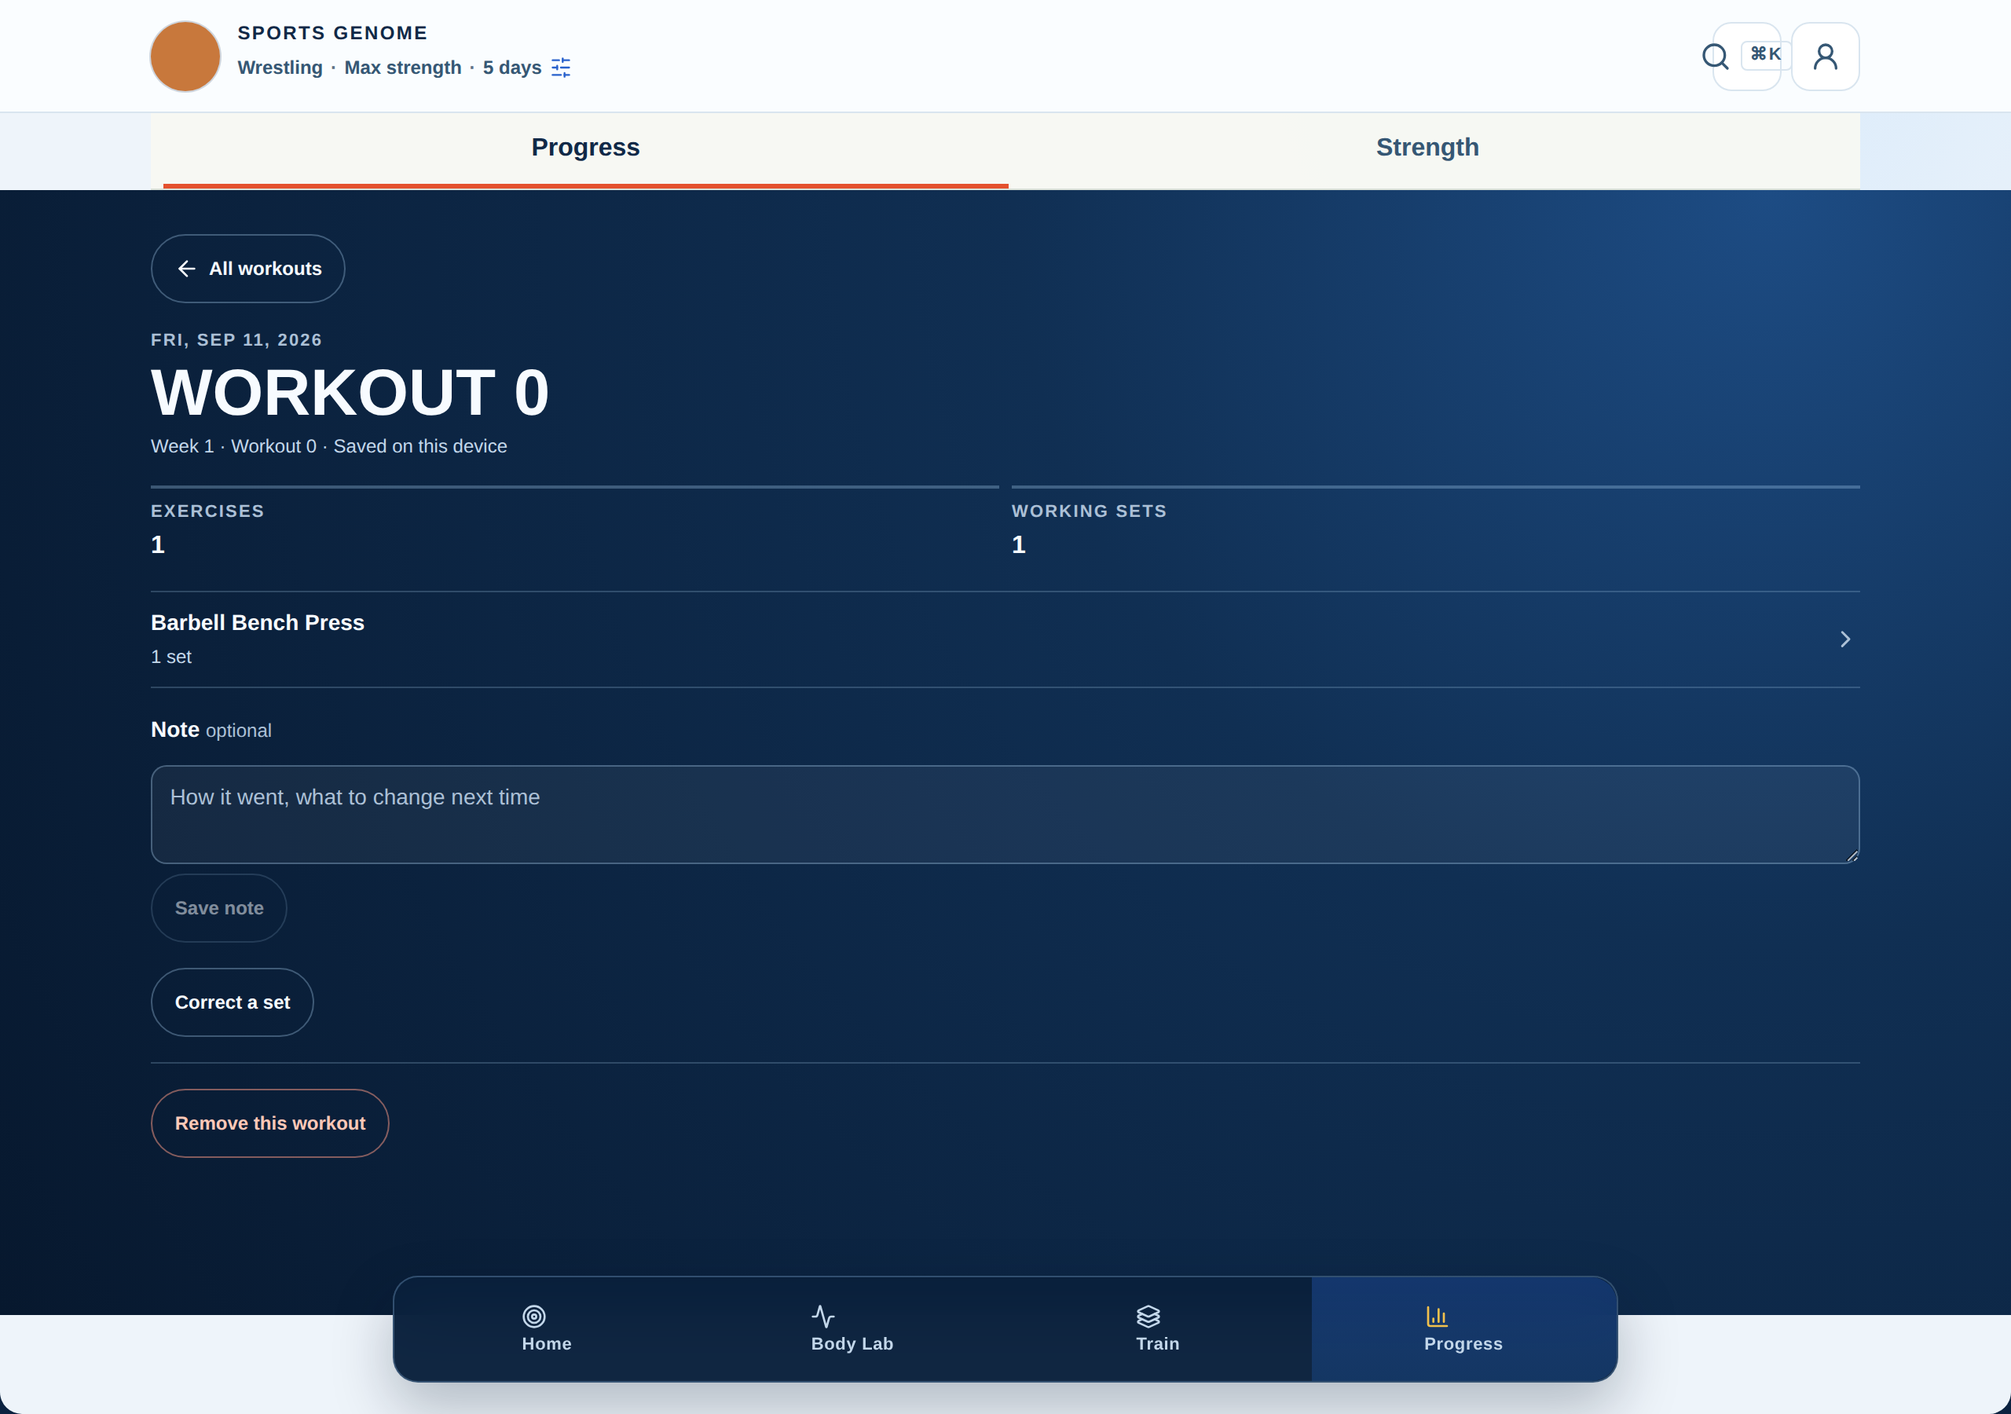
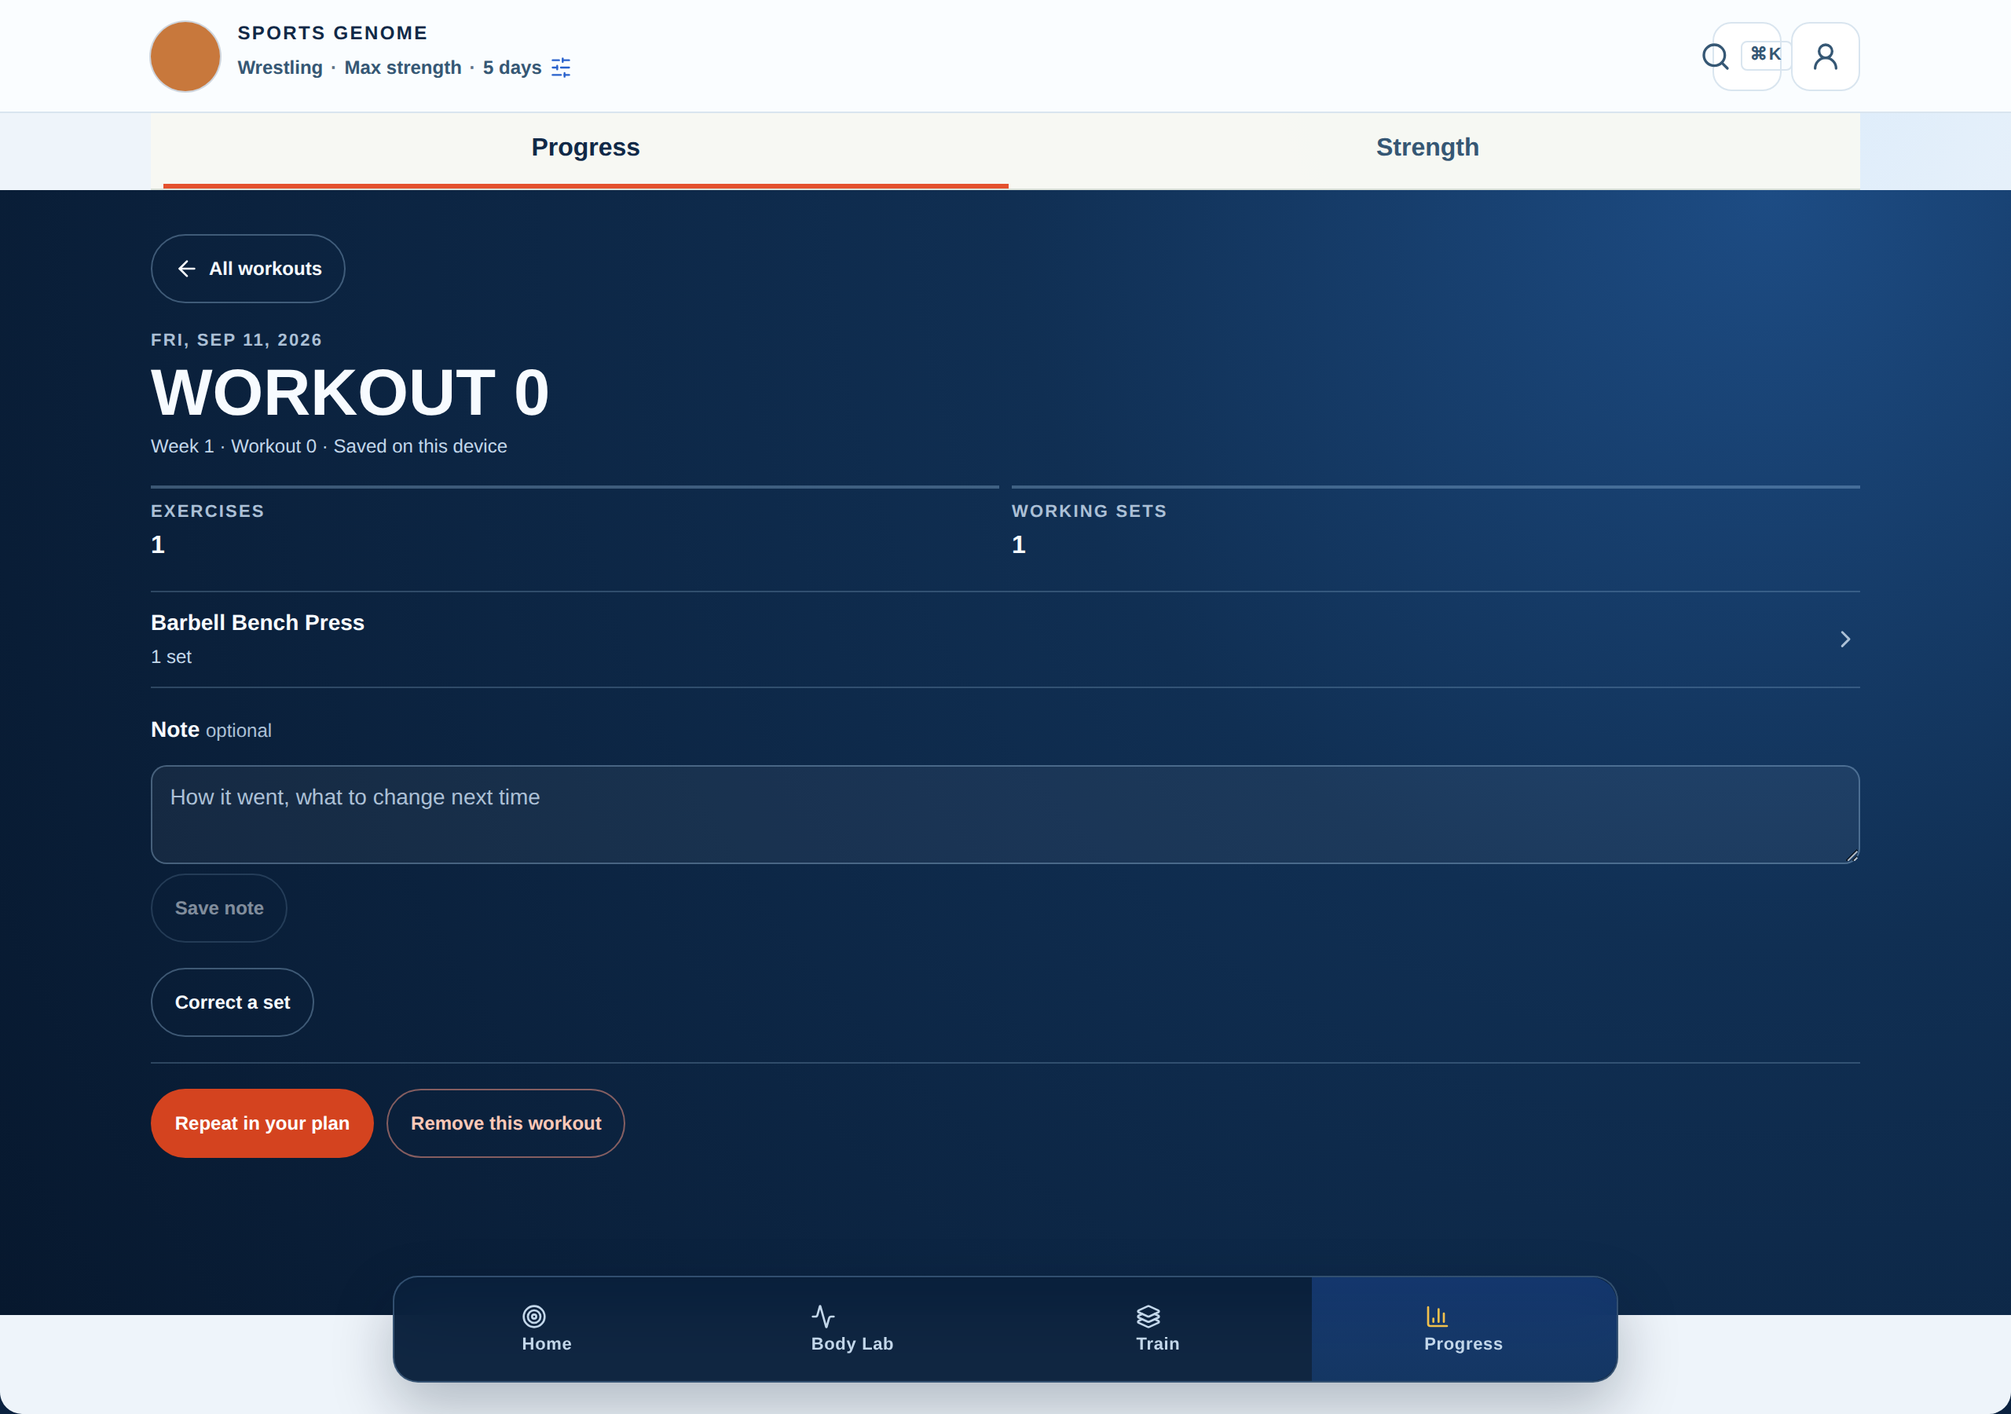
Repeat a past workout into a chosen plan day
A finished workout's detail in Progress offers "Repeat in your plan". It
opens the existing Save to plan dialog (week, day, add-after or replace,
shown before anything changes) with the workout's exercises and their
planned prescriptions only; logged sets, completions, timestamps and
notes stay in history, and an exercise no longer in the catalog is named
and left out. Unit test plus the J17 browser journey (recap probe 75/75).

Claude-Session: https://claude.ai/code/session_01FKh8DNZmGyPUgmby6diXkU

Changed region(s): [[0.0625, 0.7467, 0.3125, 0.84]]

diff --git a/client/src/pages/Home.tsx b/client/src/pages/Home.tsx
@@ -31,7 +31,8 @@ import type { TrainingLoadout as LoadoutMode } from "@/lib/loadoutTemplates";
 import { FeatureTour } from "@/components/FeatureTour";
 import { WorkspaceTabs } from "@/components/WorkspaceTabs";
 import { readScopedRecord, scopedKey } from "@/lib/deviceStorageScope";
-import { loadDeviceWorkoutSessions, saveDeviceWorkoutSessions, stampLegacyWeightUnits } from "@/lib/deviceWorkoutLog";
+import { loadDeviceWorkoutSessions, saveDeviceWorkoutSessions, stampLegacyWeightUnits, type DeviceWorkoutSession } from "@/lib/deviceWorkoutLog";
+import { repeatDayFrom } from "@/lib/sessionRecap";
 import { usePlanSync } from "@/lib/usePlanSync";
 import { WorkoutHealthPanel } from "@/components/WorkoutHealthPanel";
 import { WarmupPanel } from "@/components/WarmupPanel";
@@ -1385,6 +1386,17 @@ export default function Home() {
     setImportOpen(false);
     setPendingSave({ heading: "Paste a workout", sourceTitle: routine.title || (days.length > 1 ? `${days.length}-day routine` : days[0].label), sourceLine: countLine(days), days, scope: days.length > 1 ? "week" : "day" });
   };
+  /**
+   * Repeat a finished workout (Oct 7 brief H10): the same Save to plan dialog as a paste or a
+   * shared link, so the week, the day and add-after-or-replace are chosen, and shown, before
+   * anything changes. Only exercises and prescriptions travel; the workout's sets stay history.
+   */
+  const repeatSession = (session: DeviceWorkoutSession) => {
+    const { day, leftOut } = repeatDayFrom(session);
+    if (!day.items.length) { toast("Nothing to repeat", { id: "repeat-workout", description: "None of this workout's exercises are in the catalog any more." }); return; }
+    const exercisesLine = `${day.items.length} exercise${day.items.length === 1 ? "" : "s"} with their prescriptions; your logged sets stay in history`;
+    setPendingSave({ heading: "Repeat this workout", sourceTitle: day.label, sourceLine: leftOut.length ? `${exercisesLine}. Not in the catalog any more, so left out: ${leftOut.join(", ")}.` : `${exercisesLine}.`, days: [day], scope: "day" });
+  };
   /** Writes incoming days into the chosen week and days, in one state update per week. */
   const saveIncomingDays = (request: SaveRequest, shareToken?: string): SaveOutcome => {
     if (!planReadyForEdits({ quiet: true })) return { ok: false, message: "Your plan is still loading, so nothing was saved. Try again in a moment." };
@@ -2368,7 +2380,7 @@ export default function Home() {
               </div>
             </>}
         </section>}
-        {workspace === "progress" && <ProgressOverviewPanel sessionId={progressSession} onOpenSession={openProgressSession} onCloseSession={closeProgressSession} onOpenStrength={() => navigateWorkspace("strength")} onOpenTraining={() => navigateWorkspace("day-plan")} sexForReference={athleteBaseline.sexForReference} baselineBodyWeight={athleteBaseline.bodyWeight} weightUnit={athleteBaseline.weightUnit} birthYear={athleteBaseline.birthYear} directAccess={directWorkspaceAccess} />}
+        {workspace === "progress" && <ProgressOverviewPanel sessionId={progressSession} onOpenSession={openProgressSession} onCloseSession={closeProgressSession} onRepeatSession={repeatSession} onOpenStrength={() => navigateWorkspace("strength")} onOpenTraining={() => navigateWorkspace("day-plan")} sexForReference={athleteBaseline.sexForReference} baselineBodyWeight={athleteBaseline.bodyWeight} weightUnit={athleteBaseline.weightUnit} birthYear={athleteBaseline.birthYear} directAccess={directWorkspaceAccess} />}
         {workspace === "strength" && <StrengthGenomePanel weightUnit={athleteBaseline.weightUnit} baselineBodyWeight={athleteBaseline.bodyWeight} sexForReference={athleteBaseline.sexForReference} birthYear={athleteBaseline.birthYear} onRankProfile={(patch) => updateBaseline({ ...athleteBaseline, ...patch })} directAccess={directWorkspaceAccess} onOpenTraining={() => navigateWorkspace("day-plan")} />}
       </main></Suspense>
     </div>

diff --git a/client/src/components/ProgressOverviewPanel.tsx b/client/src/components/ProgressOverviewPanel.tsx
@@ -7,7 +7,7 @@ import { ConfirmDialog, type ConfirmDialogRequest } from "@/components/ConfirmDi
 import { summarizeWithinAthleteStrengthComparisons } from "@/lib/withinAthleteStrengthChange";
 import { changeStateLabel, changeTone } from "@/lib/changeStateCopy";
 import { mergeStrengthHistory } from "@/lib/unifiedStrengthHistory";
-import { deviceWorkoutHistoryEvent, isCompletedSet, isCompletedWorkout, loadDeviceWorkoutSessions, removeDeviceWorkoutSession, saveDeviceWorkoutSessions } from "@/lib/deviceWorkoutLog";
+import { deviceWorkoutHistoryEvent, isCompletedSet, isCompletedWorkout, loadDeviceWorkoutSessions, removeDeviceWorkoutSession, saveDeviceWorkoutSessions, type DeviceWorkoutSession } from "@/lib/deviceWorkoutLog";
 import { WorkoutSessionDetail } from "@/components/WorkoutSessionDetail";
 import { exercises as exerciseCatalog } from "@/lib/exerciseCatalog";
 import { deviceStrengthObservationEvent, loadDeviceStrengthObservations } from "@/lib/deviceStrengthObservations";
@@ -73,9 +73,11 @@ type ProgressOverviewPanelProps = {
   sessionId?: string | null;
   onOpenSession?: (id: string) => void;
   onCloseSession?: () => void;
+  /** Repeat a finished workout into the plan, through the page's Save to plan dialog (H10). */
+  onRepeatSession?: (session: DeviceWorkoutSession) => void;
 };
 
-export function ProgressOverviewPanel({ onOpenStrength, onOpenTraining, sexForReference, baselineBodyWeight, weightUnit = "lb", birthYear, directAccess = true, sessionId, onOpenSession, onCloseSession }: ProgressOverviewPanelProps) {
+export function ProgressOverviewPanel({ onOpenStrength, onOpenTraining, sexForReference, baselineBodyWeight, weightUnit = "lb", birthYear, directAccess = true, sessionId, onOpenSession, onCloseSession, onRepeatSession }: ProgressOverviewPanelProps) {
   // Account-only routes, asked only when an account is the source (B233; see TodayActionPanel).
   const sessions = trpc.workoutLog.list.useQuery(undefined, { enabled: !directAccess });
   const observations = trpc.strengthGenome.observations.useQuery(undefined, { enabled: !directAccess });
@@ -283,6 +285,7 @@ export function ProgressOverviewPanel({ onOpenStrength, onOpenTraining, sexForRe
         weightUnit={weightUnit}
         variant="history"
         onBack={closeSession}
+        onRepeat={onRepeatSession}
         onRemove={(session) => requestSessionRemoval({ id: session.id, title: session.title, completedAt: new Date(session.completedAt || session.startedAt) })}
       />
       {pendingRemoval && <ConfirmDialog {...pendingRemoval} onCancel={() => setPendingRemoval(null)} />}

diff --git a/client/src/lib/sessionRecap.ts b/client/src/lib/sessionRecap.ts
@@ -6,6 +6,7 @@ import { workoutObservationId } from "./workoutStrengthRecord";
 import { dropSetSummary, isDropSet, performedSetLine, setVolume, volumeText } from "./dropSets";
 import { swapNote } from "./workoutSwap";
 import type { DisplayWeightUnit } from "./weightUnits";
+import type { IncomingDraftDay } from "./planImport";
 
 /**
  * What a finished workout's recap shows (Oct 7 brief §5), built from the stored session alone -
@@ -173,4 +174,28 @@ export function updateFinishedSession(sessionId: string, change: (session: Devic
   if (correctsLifts) saveSyncQueue(removeQueuedLiftsForSession(loadSyncQueue(), current));
   const sent = new Set(loadSyncedKeys());
   return { session: next, alreadySent: correctsLifts && current.exercises.some((exercise) => sent.has(workoutObservationId(current.id, exercise.id))) };
+}
+
+/**
+ * Repeat a finished workout (H10): its exercises and their prescriptions as a plan day, for the
+ * Save to plan dialog to place in a week and day the athlete chooses. Only the prescription is
+ * copied - never a logged weight, a completion, a timestamp or a note - so the copy is future
+ * planned work and the history stays the history's. Exercises done in the workout are taken in
+ * order, once each (a swap gives the exercise actually done after it); one no longer in the
+ * catalog is named in `leftOut` rather than guessed at.
+ */
+export function repeatDayFrom(session: DeviceWorkoutSession): { day: IncomingDraftDay; leftOut: string[] } {
+  const seen = new Set<number>();
+  const items: IncomingDraftDay["items"] = [];
+  const leftOut: string[] = [];
+  for (const exercise of session.exercises) {
+    if (!exercise.sets.some(isCompletedSet)) continue;
+    const entry = (exercise.catalogId !== undefined ? byId.get(exercise.catalogId) : undefined) ?? byName.get(exercise.exerciseName);
+    if (!entry) { leftOut.push(exercise.exerciseName); continue; }
+    if (seen.has(entry.id)) continue;
+    seen.add(entry.id);
+    items.push({ exercise: entry, prescription: exercise.plannedPrescription });
+  }
+  const label = session.dayLabel.split(" · ").map((part) => part.trim()).filter(Boolean).pop() || session.title;
+  return { day: { label, items, unresolved: [] }, leftOut };
 }

diff --git a/client/src/components/WorkoutSessionDetail.tsx b/client/src/components/WorkoutSessionDetail.tsx
@@ -21,7 +21,7 @@ export type SessionDetailVariant = "saved" | "history";
 
 const findSession = (id: string) => loadDeviceWorkoutSessions().find((session) => session.id === id && session.status === "completed") ?? null;
 
-export function WorkoutSessionDetail({ sessionId, weightUnit, variant, onDone, onOpenProgress, onOpenNext, onBack, onRemove }: {
+export function WorkoutSessionDetail({ sessionId, weightUnit, variant, onDone, onOpenProgress, onOpenNext, onBack, onRemove, onRepeat }: {
   sessionId: string;
   weightUnit: DisplayWeightUnit;
   variant: SessionDetailVariant;
@@ -35,6 +35,8 @@ export function WorkoutSessionDetail({ sessionId, weightUnit, variant, onDone, o
   onBack?: () => void;
   /** Remove the whole workout, with Progress's own confirmation (the history variant). */
   onRemove?: (session: DeviceWorkoutSession) => void;
+  /** Put this workout's exercises and prescriptions into a plan day the athlete chooses (H10). */
+  onRepeat?: (session: DeviceWorkoutSession) => void;
 }) {
   const [session, setSession] = useState<DeviceWorkoutSession | null>(() => findSession(sessionId));
   const [noteDraft, setNoteDraft] = useState(session?.note ?? "");
@@ -165,6 +167,7 @@ export function WorkoutSessionDetail({ sessionId, weightUnit, variant, onDone, o
         {onOpenProgress && <button type="button" onClick={onOpenProgress}>View in Progress</button>}
         {onOpenNext && <button type="button" onClick={onOpenNext}>See what's next</button>}
       </>}
+      {variant === "history" && onRepeat && <button type="button" className="session-detail-primary" onClick={() => onRepeat(session)}>Repeat in your plan</button>}
       {variant === "history" && onRemove && <button type="button" className="session-detail-remove" onClick={() => onRemove(session)}>Remove this workout</button>}
     </div>
   </section>;

diff --git a/client/src/lib/sessionRecap.test.ts b/client/src/lib/sessionRecap.test.ts
@@ -137,3 +137,19 @@ describe("Last logged follows the exercise's identity (H07, H11)", () => {
     expect(lastCompletedSetFor("Row", history)?.weight).toBe("120");
   });
 });
+
+describe("Repeat a workout copies the prescription, never the history (H10)", () => {
+  it("takes each exercise done, once, with its planned prescription and none of its sets", async () => {
+    const { repeatDayFrom } = await import("./sessionRecap");
+    const finished = finalizeSession(running(), "2026-10-07T10:52:00.000Z").session;
+    const withRetired = { ...finished, exercises: [...finished.exercises, { id: "gone", exerciseName: "Retired Lift", plannedPrescription: "3 × 8", sets: [done("50", "8")] }] };
+    const { day, leftOut } = repeatDayFrom(withRetired);
+    expect(day.label).toBe("Push");
+    // "Dips" is not a catalog name (the catalog has "Parallel-Bar Dip"), so it is named, not guessed.
+    expect(day.items.map((item) => [item.exercise.name, item.prescription])).toEqual([["Barbell Bench Press", "4 × 5"]]);
+    // Nothing logged travels: no weight, reps, completion, rpe, rest or note.
+    for (const item of day.items) expect(Object.keys(item).sort()).toEqual(["exercise", "prescription"]);
+    expect(leftOut).toEqual(["Dips", "Retired Lift"]);
+    expect(day.unresolved).toEqual([]);
+  });
+});

diff --git a/docs/product-refinement-oct07/status.md b/docs/product-refinement-oct07/status.md
@@ -11,7 +11,7 @@
 
 **Evidence shorthand**
 
-- *recap probe*: `probes/recap-history.mjs`, 71/71.
+- *recap probe*: `probes/recap-history.mjs`, 75/75.
 - *rank probe*: `docs/rank-suggestions/probes/rank-suggestions.mjs`, 14/14.
 - *swap/drop probe*: `docs/workout-swap-drop/probes/acceptance.mjs`, rerun 44/44.
 - *Oct 1 probe*: `docs/ux-oct1/probes/oct1.mjs`, rerun 27/34. The seven failures are listed under O05.
@@ -80,7 +80,7 @@
 | H07 | implementing | `lastCompletedSetFor` | The logger's "Last logged" now matches by catalog ID; unit test | No per-exercise history screen was added. Strength's record sheet remains the exercise history |
 | H08 | already satisfied | `setWeightUnit`, `performedSetLine` | Sets show in their recorded unit (Oct 6 work) | — |
 | H09 | verified | — | Opening a past session reads the stored record; nothing is copied into the live logger | — |
-| H10 | not started | — | — | Repeat workout was not built this pass |
+| H10 | verified | `repeatDayFrom` (`lib/sessionRecap.ts`), Home `repeatSession` | "Repeat in your plan" on a past workout opens the existing Save to plan dialog: week, day, add-after or replace, shown before anything changes. Only exercises and planned prescriptions copy. Unit test (no weights, completions, notes); recap probe J17 | An exercise no longer in the catalog is named and left out, not resolved. RPE and rest take the plan's defaults |
 | H11 | verified | `historyExerciseKey`, `strengthSeriesKey` | Unit tests: same name with different IDs stays separate | — |
 | H12 | already satisfied | — | Sessions keep the exercise name; a missing catalog entry shows the placeholder frame, and the session is never removed | No "no longer in the catalog" label was added |
 
@@ -213,7 +213,7 @@
 | J12, J13 | blocked | — | The ranking service is unreachable from the sandbox. The UI states were unit-tested |
 | J14 | verified | Fixture tests | — |
 | J15, J16 | verified | Recap probe | — |
-| J17 | not started | — | Repeat workout (H10) |
+| J17 | verified | Recap probe: repeat into Week 1 · Pull; both exercises land with prescriptions; stored history byte-identical | — |
 | J18 | implementing | 320 px, failed images (media probe) | Keyboard-open, slow and offline runs were not done for the new screens |
 
 ## Z — Report

diff --git a/docs/product-refinement-oct07/report.md b/docs/product-refinement-oct07/report.md
@@ -52,6 +52,11 @@ The actions are **Done**, **View in Progress** and **See what's next**.
 - If that workout's lifts were already sent to the account, the app says the account keeps the old numbers. The account table is insert-only.
 - Lifts not yet sent are re-queued with the corrected numbers.
 
+**Repeat a workout.** A past workout's detail has **Repeat in your plan**. It opens the same Save to plan dialog used for pasted and shared workouts, so you pick the week and day, and add-after or replace, before anything changes.
+- Only the exercises and their planned prescriptions are copied.
+- Logged weights, completions, timestamps and notes stay in history.
+- An exercise no longer in the catalog is named and left out.
+
 ### 3. Home
 
 A **Last workout** row under "Your week" opens that exact workout's detail. It sits below the primary action, so a Resume button always comes first.
@@ -156,7 +161,7 @@ Its first run found three stabilizer mappings with no weight (Inverted Row, Feet
 - `rankRecommendations.test.ts`: rewritten for the new copy, plus snapshot, ID and generator tests.
 
 **Browser probes.**
-- `probes/recap-history.mjs`: 71/71 at 390, 320 and 1280 px. Screenshots are in `evidence/`.
+- `probes/recap-history.mjs`: 75/75 at 390, 320 and 1280 px, plus the Repeat journey at 390 px. Screenshots are in `evidence/`.
 - Rank probe: 14/14, including Equipment and Back to Chest.
 - Earlier probes rerun against this build:
   - swap/drop: 44/44 after updating three selectors for this brief's changes;
@@ -168,7 +173,6 @@ Its first run found three stabilizer mappings with no weight (Inverted Row, Feet
 ## Not done, and risks
 
 **Not built.**
-- **Repeat workout** (H10, J17).
 - **Exercise-specific history screen** (H07). The record sheet in Strength remains that view.
 - **Weekly Review W-items** and **performance timing** (F01) were not audited this pass.
 
